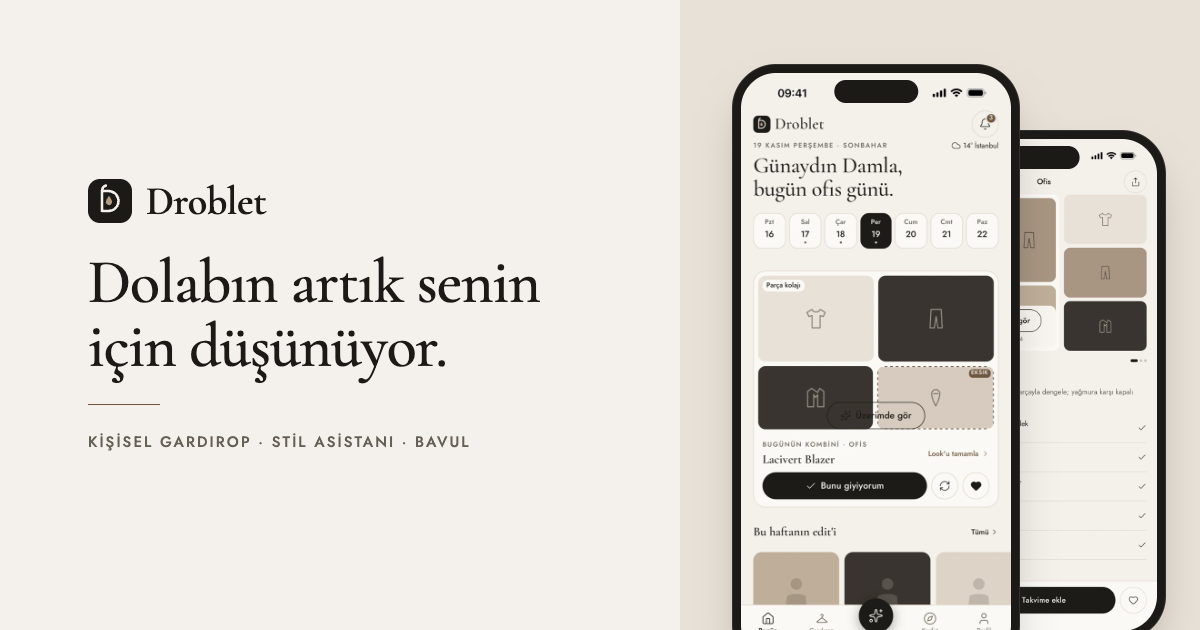
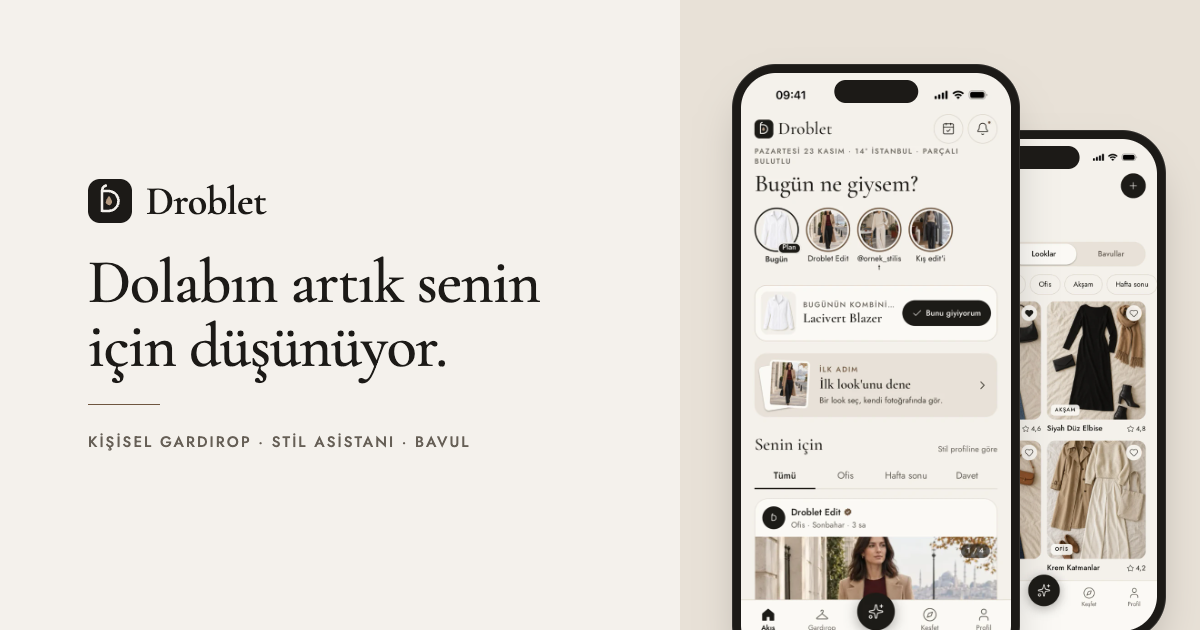
feat(landing): Akış photo band, department screen in the gallery, new link preview image
Six of the showcase pictures form a band under the features; the department
picker (03a) joins the screens; og.png is rendered from the new screens. The
onboarding capture flow types the password as plain text and swipes inside the
year list.

Claude-Session: https://claude.ai/code/session_018jPFkeYgtf4Jz6TusSoJJ2

Changed region(s): [[0.6167, 0.1206, 0.9558, 1.0], [0.7708, 0.1206, 0.8325, 0.2413], [0.8942, 0.2413, 0.9558, 0.3317]]

diff --git a/landing/src/components/HomePage.tsx b/landing/src/components/HomePage.tsx
@@ -27,6 +27,9 @@ const photos = {
   trip: { src: '/photos/landing-trip.webp', width: 1536, height: 1024 },
 } as const;
 
+/** The Akış band: editor photographs and look covers (fictional, AI-made), in the order of `home.photos.feed.alts`. */
+const feedPhotos = ['feed-office', 'cover-navy-blazer', 'feed-weekend', 'cover-friend-dinner', 'feed-invite', 'story-trench'] as const;
+
 /**
  * Features shown with a photograph instead of a screenshot (canvas `Landing`), by dictionary index; the
  * rest keep their phone frame. `position` is the crop focus inside the 4/3 card.
@@ -54,6 +57,7 @@ const toneClasses = [
 /** Order of the screens gallery before the closing call to action. */
 const galleryScreens: readonly ScreenName[] = [
   'welcome',
+  'segment',
   'feed',
   'today',
   'looks',
@@ -205,6 +209,33 @@ export function HomePage({ locale }: { locale: Locale }) {
               </article>
             );
           })}
+        </section>
+
+        {/* Akış: what the feed looks like */}
+        <section id="feed" className="border-t border-line bg-paper">
+          <div className="mx-auto flex max-w-page flex-col gap-9 px-4 py-14 sm:px-6 sm:py-[72px]">
+            <div className="flex max-w-[640px] flex-col gap-2.5" data-reveal>
+              <p className="eyebrow text-accent">{t.feed.eyebrow}</p>
+              <h2 className="section-title">{t.feed.title}</h2>
+              <p className="body-text text-[16px]">{t.feed.body}</p>
+            </div>
+            <ul className="m-0 grid list-none grid-cols-2 gap-3 p-0 sm:grid-cols-3 sm:gap-4 lg:grid-cols-6" data-reveal>
+              {feedPhotos.map((name, index) => (
+                <li key={name} className="overflow-hidden rounded-card bg-sand">
+                  {/* eslint-disable-next-line @next/next/no-img-element -- static export: no image loader */}
+                  <img
+                    src={`/photos/${name}.webp`}
+                    width={800}
+                    height={1200}
+                    alt={t.photos.feed.alts[index] ?? ''}
+                    loading="lazy"
+                    decoding="async"
+                    className="block aspect-[2/3] w-full object-cover"
+                  />
+                </li>
+              ))}
+            </ul>
+          </div>
         </section>
 
         {/* Privacy promise */}

diff --git a/landing/src/lib/screens.ts b/landing/src/lib/screens.ts
@@ -8,6 +8,7 @@ import type { Locale } from './i18n';
  */
 export const screenNames = [
   'welcome',
+  'segment',
   'feed',
   'today',
   'looks',
@@ -28,7 +29,7 @@ export const screenSize = { width: 593, height: 1290 } as const;
  * Changes with every new capture: the file names stay the same, so without it a browser that saw the page before keeps
  * showing the old screenshots from its cache (they are cached for hours).
  */
-export const screenVersion = '2026-11-23';
+export const screenVersion = '2026-11-23b';
 
 export function screenSrc(locale: Locale, name: ScreenName): string {
   return `/screens/${locale}/${name}.webp?v=${screenVersion}`;

diff --git a/landing/scripts/capture/og.html b/landing/scripts/capture/og.html
@@ -32,8 +32,8 @@
     <div class="eyebrow">KİŞİSEL GARDIROP · STİL ASİSTANI · BAVUL</div>
   </div>
   <div class="stage">
-    <div class="phone back"><img src="../../public/screens/tr/suggestion.webp" alt=""><span class="island"></span></div>
-    <div class="phone front"><img src="../../public/screens/tr/today.webp" alt=""><span class="island"></span></div>
+    <div class="phone back"><img src="../../public/screens/tr/looks.webp" alt=""><span class="island"></span></div>
+    <div class="phone front"><img src="../../public/screens/tr/feed.webp" alt=""><span class="island"></span></div>
   </div>
 </body>
 </html>
